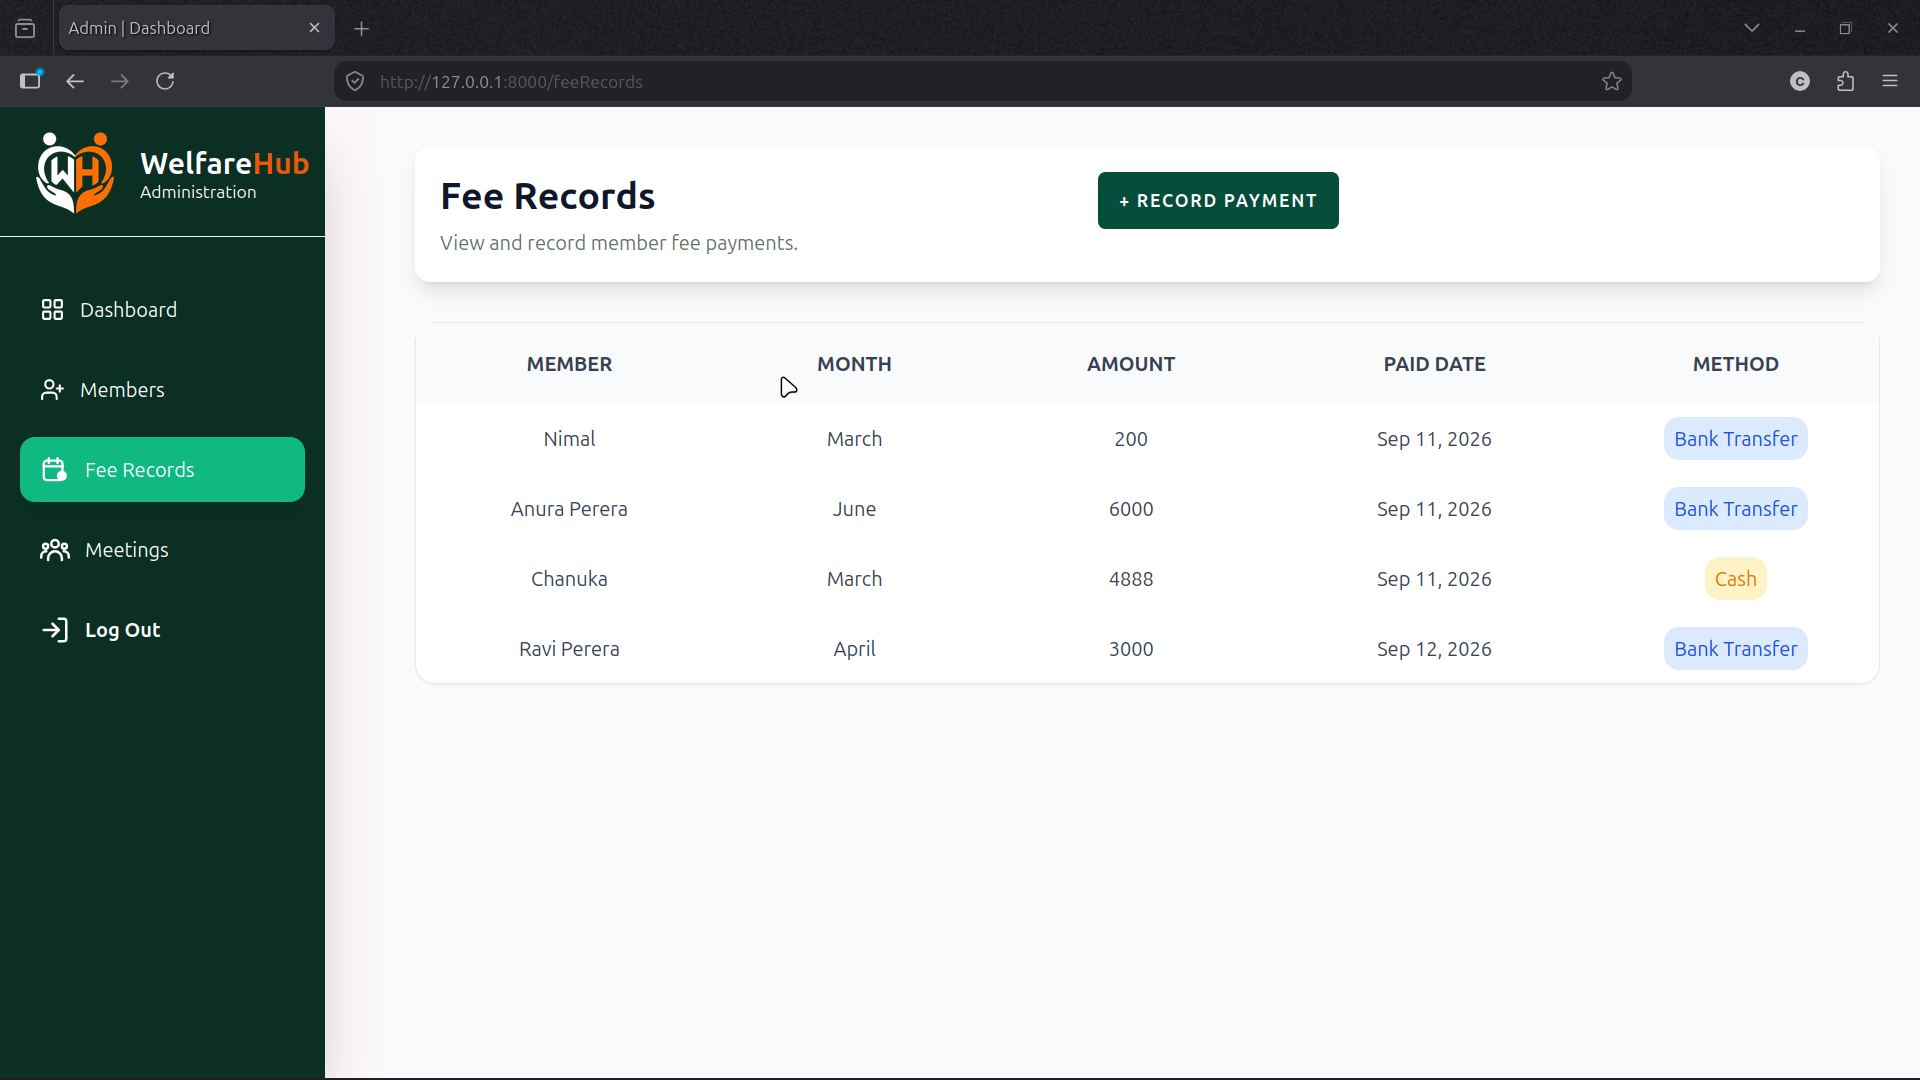
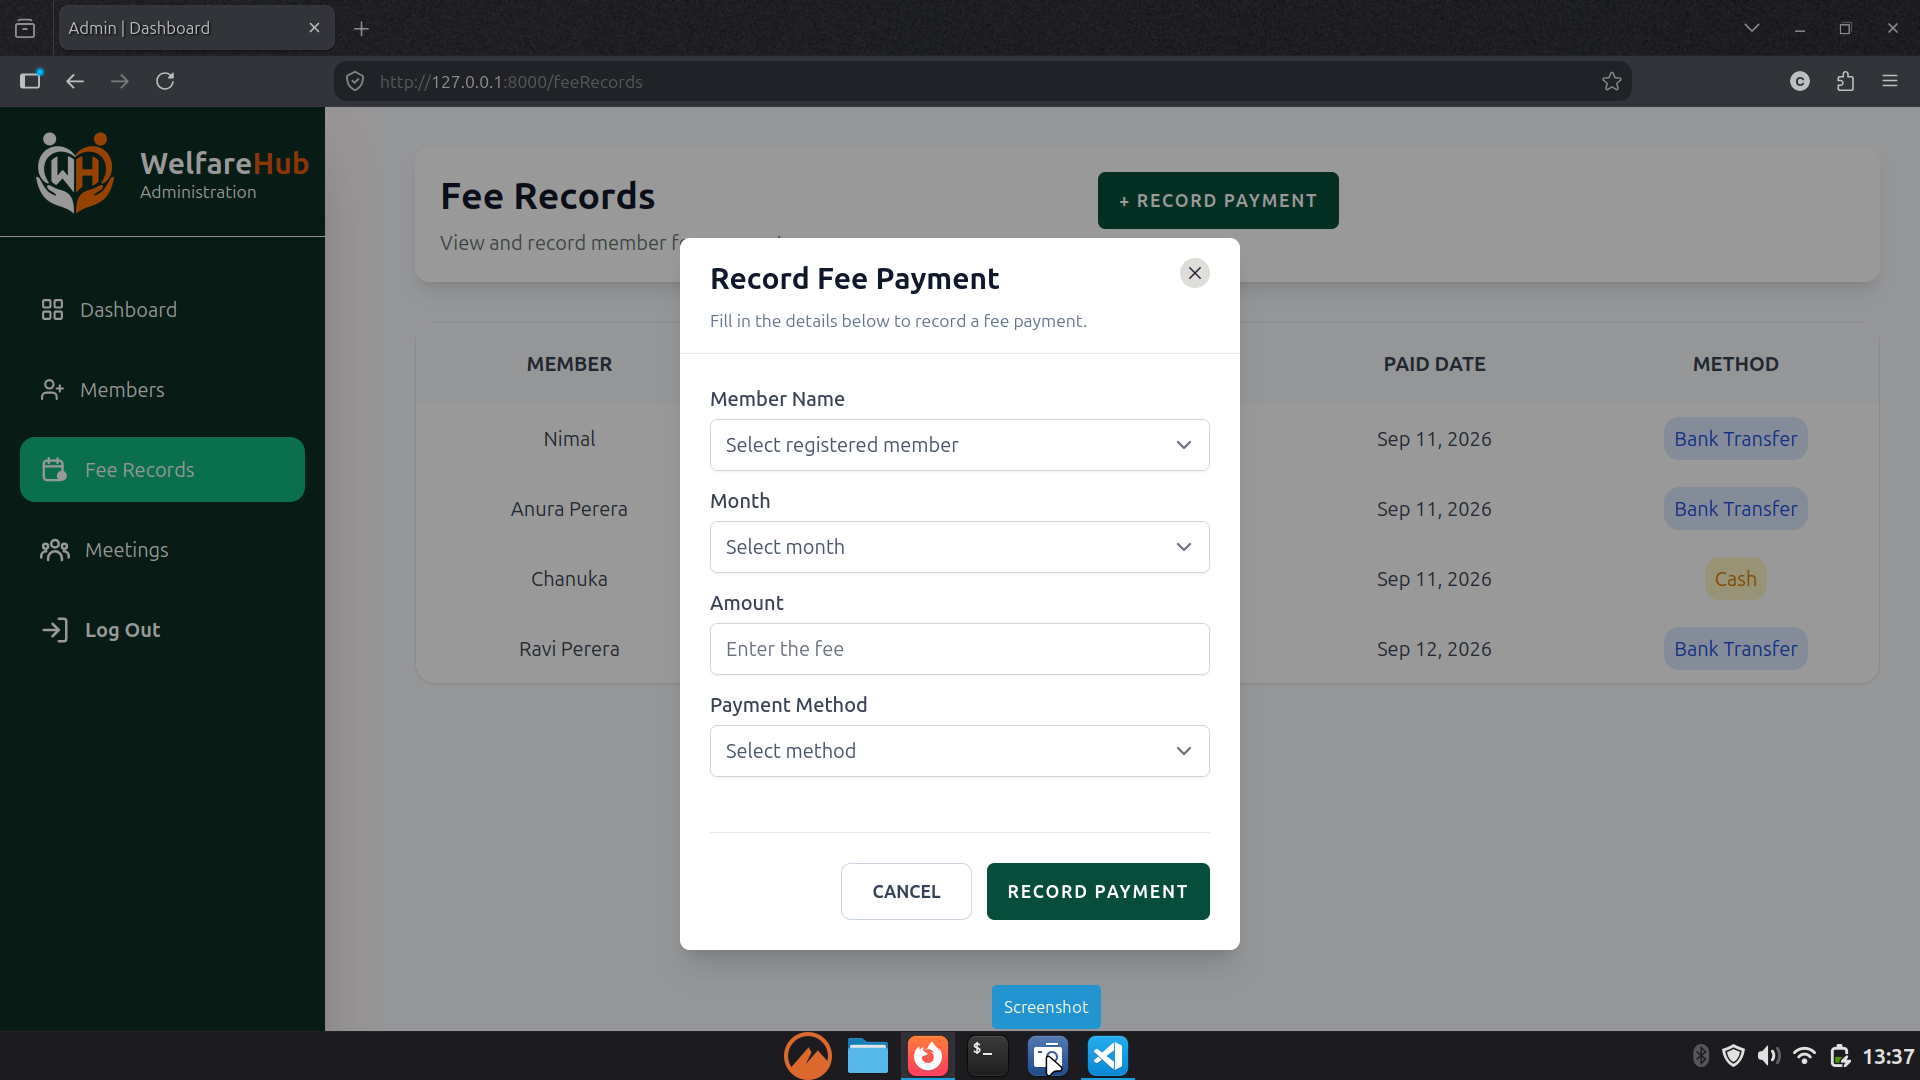
update screenshots

diff --git a/README.md b/README.md
@@ -24,6 +24,10 @@ WelfareHub is an admin-based Laravel CRUD application developed to manage welfar
 
 ## Screenshots
 
+### WelfareHub | Login
+
+![Login](screenshots/welfare|login.png)
+
 ### Dashboard
 
 ![Dashboard](screenshots/dashboard.png)
